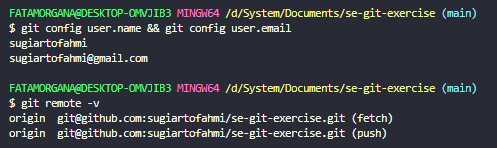
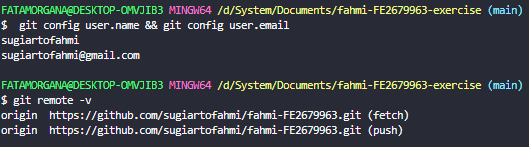
Fahmi Sugiarto | Fix Remote

Changed region(s): [[0.0, 0.5442, 0.996, 0.9524], [0.0, 0.0272, 0.996, 0.4354]]

diff --git a/fahmi-FE2679963/git-exercise.md b/fahmi-FE2679963/git-exercise.md
@@ -894,7 +894,7 @@ Jika diperhatikan dengan `git status` kita sekarang berada pada branch `master`
 
   ![assets/repo/exercise1.png](assets/repo/exercise1.png)
 
-- url repository github _(change `url` with your public repository Github)_: [github](https://github.com/sugiartofahmi/se-git-exercise/tree/Fahmi-FE2679963)
+- url repository github _(change `url` with your public repository Github)_: [github](https://github.com/sugiartofahmi/fahmi-FE2679963)
   
 Finish.
 
